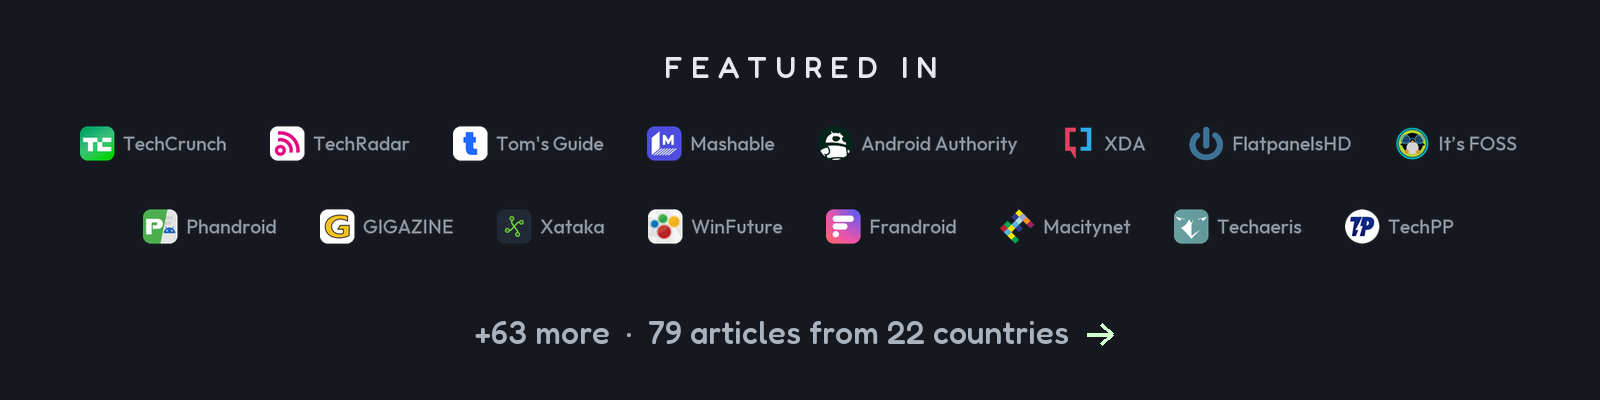
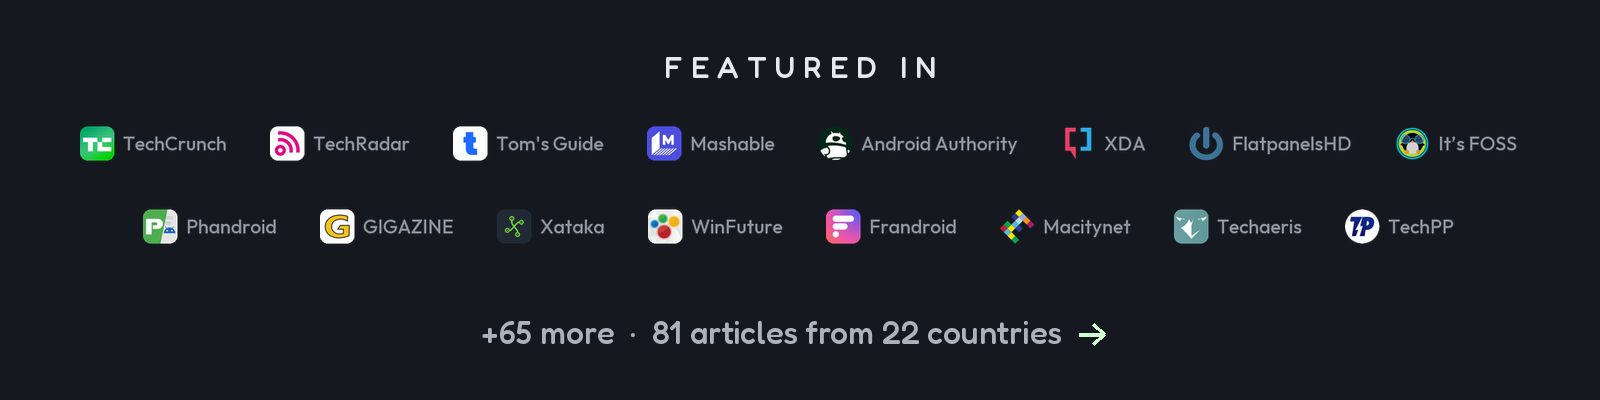
docs: Golem and Tecnobits in the press list, and a count check (#489, #774)
The article total lives in four places - the PRESS.md intro, its index line,
the README card alt text and tools/readme_featured.py, which draws the same
sentence onto docs/featured.png - so every batch meant patching all four and
redrawing the card. Two rows added, both opened and checked: Golem (#489), in
the Germany table next to WinFuture and Clauding.de, and Tecnobits (#774), in
the Spanish-language table.

Tecnobits publishes no registered address. It writes in Spanish, stamps its
posts on a -05:00 clock and runs Latin-America-facing guides (crypto cards in
Latin America, prices in dollars), so it sits with the Spanish-language
coverage instead of being assigned a European country; moving one cell later is
cheap if a maintainer knows where it is filed.

tests/test_press_counts.py re-derives the four numbers from the tables and the
logo list, so a batch that edits one and forgets the others fails in CI rather
than shipping a card that disagrees with the list. Rebased onto current main
(190 models, 56 brands) so the 21 Oct press batch that landed is kept.

Changed region(s): [[0.2812, 0.78, 0.7188, 0.87], [0.4375, 0.15, 0.5938, 0.21]]

diff --git a/tests/test_press_counts.py b/tests/test_press_counts.py
@@ -1,0 +1,135 @@
+"""Keeps the press numbers in docs/PRESS.md, the README card and the card source in step.
+
+The article total is written in four places: the PRESS.md intro, its per-country index line,
+the README alt text and tools/readme_featured.py (which draws the line onto docs/featured.png).
+Adding one article by hand means editing all four; this checks they agree, so a PR that adds a
+row and forgets the counts fails here instead of shipping a card that says 73 over a list of 74.
+
+Run from the repository root: python3 -m unittest discover -s tests -v
+"""
+import re
+from pathlib import Path
+import unittest
+
+
+ROOT = Path(__file__).resolve().parents[1]
+PRESS = ROOT / "docs" / "PRESS.md"
+README = ROOT / "README.md"
+FEATURED = ROOT / "tools" / "readme_featured.py"
+
+LATAM = "Latin America (Spanish-language)"
+ONLINE = "Online (newsletters, blogs, AI news)"
+ROW = re.compile(r"^\| (?!Outlet\b)(?!--)")
+LINK = re.compile(r"\[[^\]]+\]\((https?://[^)]+)\)")
+TOC_ENTRY = re.compile(r"\[([^\]]+)\]\(#[^)]+\)&nbsp;(\d+)")
+
+
+def sections():
+    """(heading, rows) for every '## ' section, in file order."""
+    out, current = [], None
+    for line in PRESS.read_text(encoding="utf-8").split("\n"):
+        if line.startswith("## "):
+            current = (line[3:].strip(), [])
+            out.append(current)
+        elif current is not None and ROW.match(line):
+            current[1].append(line)
+    return out
+
+
+def intro():
+    """The four numbers the PRESS.md intro states, as ints."""
+    text = PRESS.read_text(encoding="utf-8").split("\n")[2]
+    total = re.search(r"\*\*(\d+) articles\*\*", text)
+    countries = re.search(r"(\d+) of them from outlets in (\d+) countries", text)
+    latam = re.search(r"(\d+) from Spanish-language sites", text)
+    online = re.search(r"(\d+) from newsletters", text)
+    for name, match in (("total", total), ("countries", countries), ("Latin America", latam), ("online", online)):
+        if match is None:
+            raise AssertionError(f"docs/PRESS.md line 3 no longer states the {name} number")
+    return {
+        "total": int(total.group(1)),
+        "country_articles": int(countries.group(1)),
+        "countries": int(countries.group(2)),
+        "latam": int(latam.group(1)),
+        "online": int(online.group(1)),
+    }
+
+
+def toc():
+    """{heading: number} from the one-line index under the intro."""
+    line = next(l for l in PRESS.read_text(encoding="utf-8").split("\n") if l.startswith("[United States]"))
+    return dict((name, int(n)) for name, n in TOC_ENTRY.findall(line))
+
+
+def logos():
+    source = FEATURED.read_text(encoding="utf-8")
+    block = re.search(r"^LOGOS = \[(.*?)\]$", source, re.S | re.M).group(1)
+    return re.findall(r'"([^"]+)"', block)
+
+
+class PressCountsTest(unittest.TestCase):
+    def setUp(self):
+        self.sections = sections()
+        self.counts = dict((name, len(rows)) for name, rows in self.sections)
+        self.numbers = intro()
+        self.index = toc()
+
+    def test_index_matches_the_sections(self):
+        self.assertEqual(list(self.index), [name for name, _ in self.sections])
+        for name, rows in self.sections:
+            with self.subTest(section=name):
+                self.assertEqual(self.index[name], len(rows), f"{name}: index says {self.index[name]}, table has {len(rows)} rows")
+
+    def test_total_matches_the_rows(self):
+        self.assertEqual(sum(self.counts.values()), self.numbers["total"])
+
+    def test_the_split_adds_up(self):
+        countries = [n for n in self.counts if n not in (LATAM, ONLINE)]
+        country_rows = sum(self.counts[n] for n in countries)
+        with self.subTest(part="country sections"):
+            self.assertEqual(len(countries), self.numbers["countries"])
+        with self.subTest(part="country rows"):
+            self.assertEqual(country_rows, self.numbers["country_articles"])
+        with self.subTest(part="Latin America"):
+            self.assertEqual(self.counts[LATAM], self.numbers["latam"])
+        with self.subTest(part="online"):
+            self.assertEqual(self.counts[ONLINE], self.numbers["online"])
+        with self.subTest(part="sum"):
+            self.assertEqual(country_rows + self.counts[LATAM] + self.counts[ONLINE], self.numbers["total"])
+
+    def test_readme_alt_text_matches_the_list(self):
+        alt = re.search(r'and (\d+) more: (\d+) articles from (\d+) countries', README.read_text(encoding="utf-8"))
+        self.assertIsNotNone(alt, "the README card alt text no longer states 'and N more: N articles from N countries'")
+        more, articles, countries = (int(g) for g in alt.groups())
+        self.assertEqual(articles, self.numbers["total"], "README alt text and docs/PRESS.md disagree on the article count")
+        self.assertEqual(countries, self.numbers["countries"], "README alt text and docs/PRESS.md disagree on the country count")
+        self.assertEqual(more, self.numbers["total"] - len(logos()), "README alt text and the logos in tools/readme_featured.py disagree on the '+N more'")
+
+    def test_the_card_source_draws_the_same_numbers(self):
+        more = re.search(r'^MORE = "(.*)"$', FEATURED.read_text(encoding="utf-8"), re.M)
+        self.assertIsNotNone(more, "tools/readme_featured.py no longer has a MORE line")
+        expected = "+%d more  ·  %d articles from %d countries" % (
+            self.numbers["total"] - len(logos()), self.numbers["total"], self.numbers["countries"])
+        self.assertEqual(more.group(1), expected,
+                         "tools/readme_featured.py is out of step with docs/PRESS.md; "
+                         "run it and tools/readme_card.py to redraw docs/featured.png and docs/card.jpg")
+
+    def test_every_row_is_a_linked_article(self):
+        for name, rows in self.sections:
+            for row in rows:
+                with self.subTest(section=name, row=row[:60]):
+                    self.assertEqual(len(LINK.findall(row)), 1, "row needs exactly one article link")
+                    cells = [c.strip() for c in row.strip().strip("|").split("|")]
+                    self.assertEqual(len(cells), 3, "row needs outlet, article and date")
+                    self.assertTrue(cells[0] and cells[2], "outlet and date must not be empty")
+
+    def test_no_article_is_listed_twice(self):
+        seen = {}
+        for name, rows in self.sections:
+            for url in LINK.findall("\n".join(rows)):
+                self.assertNotIn(url, seen, f"{url} is in both {seen.get(url)} and {name}")
+                seen[url] = name
+
+
+if __name__ == "__main__":
+    unittest.main()

diff --git a/tools/readme_featured.py b/tools/readme_featured.py
@@ -7,7 +7,7 @@ from PIL import Image, ImageDraw, ImageFont
 FONT, OUT = sys.argv[1], sys.argv[2]
 LOGOS = ["techcrunch", "techradar", "tomsguide", "mashable", "androidauthority", "xda", "flatpanelshd", "itsfoss",
          "phandroid", "gigazine", "xataka", "winfuture", "frandroid", "macitynet", "techaeris", "techpp"]
-MORE = "+63 more  ·  79 articles from 22 countries"
+MORE = "+65 more  ·  81 articles from 22 countries"
 W, LH, GAP, ROWGAP, PAD = 1600, 54, 40, 36, 80
 def f(size, wt):
     x = ImageFont.truetype(FONT, size); x.set_variation_by_axes([wt]); return x

diff --git a/docs/PRESS.md b/docs/PRESS.md
@@ -1,10 +1,10 @@
 # CleanYourTV in the press
 
-Every article about CleanYourTV (called tv-vibehack until 19 October 2026) that we could open and check: **79 articles**, 52 of them from outlets in 22 countries, 4 from Spanish-language sites in Latin America and 23 from newsletters, blogs and AI news sites. Headlines are in the language they were published in. Syndicated copies and auto-generated listings are left out.
+Every article about CleanYourTV (called tv-vibehack until 19 October 2026) that we could open and check: **81 articles**, 53 of them from outlets in 22 countries, 5 from Spanish-language sites in Latin America and 23 from newsletters, blogs and AI news sites. Headlines are in the language they were published in. Syndicated copies and auto-generated listings are left out.
 
 Wrote about it and not here? Open an issue or a pull request with the link.
 
-[United States](#united-states)&nbsp;10 · [United Kingdom](#united-kingdom)&nbsp;2 · [India](#india)&nbsp;2 · [Denmark](#denmark)&nbsp;1 · [Japan](#japan)&nbsp;2 · [Bangladesh](#bangladesh)&nbsp;1 · [United Arab Emirates](#united-arab-emirates)&nbsp;1 · [France](#france)&nbsp;3 · [Germany](#germany)&nbsp;2 · [Spain](#spain)&nbsp;2 · [Italy](#italy)&nbsp;2 · [Norway](#norway)&nbsp;1 · [Portugal](#portugal)&nbsp;1 · [Czechia](#czechia)&nbsp;1 · [Ukraine](#ukraine)&nbsp;1 · [Greece](#greece)&nbsp;1 · [Egypt](#egypt)&nbsp;1 · [Brazil](#brazil)&nbsp;3 · [Latin America (Spanish-language)](#latin-america-spanish-language)&nbsp;4 · [China](#china)&nbsp;7 · [Taiwan](#taiwan)&nbsp;1 · [Indonesia](#indonesia)&nbsp;6 · [Thailand](#thailand)&nbsp;1 · [Online (newsletters, blogs, AI news)](#online-newsletters-blogs-ai-news)&nbsp;23
+[United States](#united-states)&nbsp;10 · [United Kingdom](#united-kingdom)&nbsp;2 · [India](#india)&nbsp;2 · [Denmark](#denmark)&nbsp;1 · [Japan](#japan)&nbsp;2 · [Bangladesh](#bangladesh)&nbsp;1 · [United Arab Emirates](#united-arab-emirates)&nbsp;1 · [France](#france)&nbsp;3 · [Germany](#germany)&nbsp;3 · [Spain](#spain)&nbsp;2 · [Italy](#italy)&nbsp;2 · [Norway](#norway)&nbsp;1 · [Portugal](#portugal)&nbsp;1 · [Czechia](#czechia)&nbsp;1 · [Ukraine](#ukraine)&nbsp;1 · [Greece](#greece)&nbsp;1 · [Egypt](#egypt)&nbsp;1 · [Brazil](#brazil)&nbsp;3 · [Latin America (Spanish-language)](#latin-america-spanish-language)&nbsp;5 · [China](#china)&nbsp;7 · [Taiwan](#taiwan)&nbsp;1 · [Indonesia](#indonesia)&nbsp;6 · [Thailand](#thailand)&nbsp;1 · [Online (newsletters, blogs, AI news)](#online-newsletters-blogs-ai-news)&nbsp;23
 
 ## United States
 
@@ -74,6 +74,7 @@ Wrote about it and not here? Open an issue or a pull request with the link.
 | --- | --- | --- |
 | WinFuture | [KIs machen Smart-TVs dumm, um Werbung und Tracking loszuwerden](https://winfuture.de/news,162070.html) | 20&nbsp;Oct |
 | Clauding.de | [dumbtv and cleanyourtv: People Are Stripping Their TVs With Claude Code](https://clauding.de/en/posts/smart-tv-entruempeln-claude-code/) | 20&nbsp;Oct |
+| Golem | [Entrümpelung per Agent: KI-Agenten entfernen Werbung von Smart-TVs](https://www.golem.de/news/entruempelung-per-agent-ki-agenten-entfernen-werbung-von-smart-tvs-2610-214283.html) | 20&nbsp;Oct |
 
 ## Spain
 
@@ -141,6 +142,7 @@ Wrote about it and not here? Open an issue or a pull request with the link.
 | DiarioBitcoin | [Usuarios usan IA para quitar anuncios y bloatware de sus televisores inteligentes](https://www.diariobitcoin.com/tecnologia/usuarios-usan-ia-para-quitar-anuncios-y-bloatware-de-sus-televisores-inteligentes/) | 19&nbsp;Oct |
 | Ecosistema Startup | [dumbtv: el hack con IA que elimina los anuncios del TV](https://ecosistemastartup.com/dumbtv-el-hack-con-ia-que-elimina-los-anuncios-del-tv/) | 19&nbsp;Oct |
 | TecToc | [Usuarios están usando IA para quitar anuncios y «limpiar» sus Smart TV](https://tectoc.blog/2026/10/19/usuarios-estan-usando-ia-para-quitar-anuncios-y-limpiar-sus-smart-tv/) | 19&nbsp;Oct |
+| Tecnobits | [Cómo hacer debloat a tu Smart TV con IA y CleanYourTV](https://tecnobits.net/como-hacer-debloat-a-tu-smart-tv-con-ia-cleanyourtv/) | 21&nbsp;Oct |
 
 ## China
 

diff --git a/README.md b/README.md
@@ -18,7 +18,7 @@
 </p>
 
 <p align="center">
-  <a href="docs/PRESS.md"><img src="docs/card.jpg" alt="190 TV models · 56 brands · 24 languages · 429 KB launcher. Featured in TechCrunch, TechRadar, Tom's Guide, Mashable, Android Authority, XDA, FlatpanelsHD, It's FOSS, Phandroid, GIGAZINE, Xataka, WinFuture, Frandroid, Macitynet, Techaeris, TechPP and 63 more: 79 articles from 22 countries. Before: stock Google TV home with a sponsored ad. After: the Clean Your TV launcher." width="800"></a>
+  <a href="docs/PRESS.md"><img src="docs/card.jpg" alt="190 TV models · 56 brands · 24 languages · 429 KB launcher. Featured in TechCrunch, TechRadar, Tom's Guide, Mashable, Android Authority, XDA, FlatpanelsHD, It's FOSS, Phandroid, GIGAZINE, Xataka, WinFuture, Frandroid, Macitynet, Techaeris, TechPP and 65 more: 81 articles from 22 countries. Before: stock Google TV home with a sponsored ad. After: the Clean Your TV launcher." width="800"></a>
 </p>
 
 **The viral tweet:** [x.com/gathint/status/2111379569030939102](https://x.com/gathint/status/2111379569030939102)
